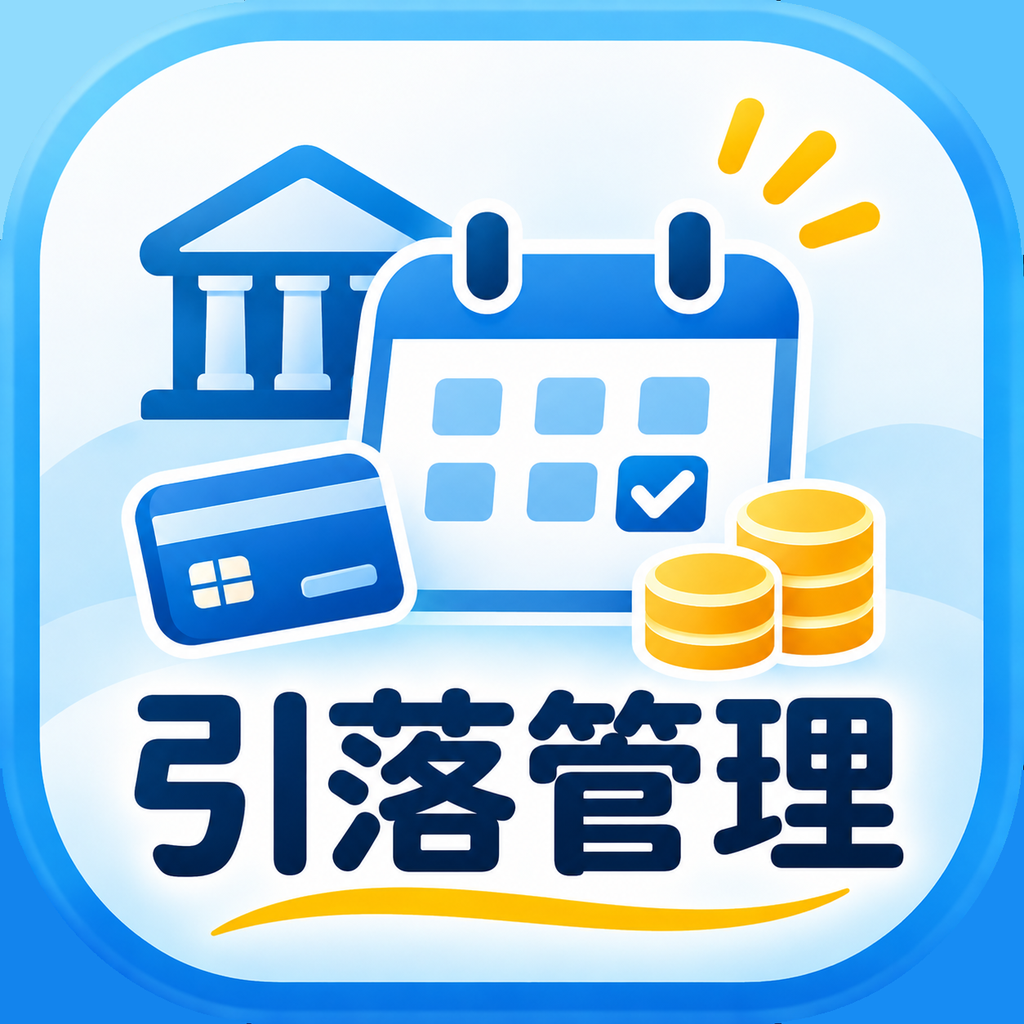
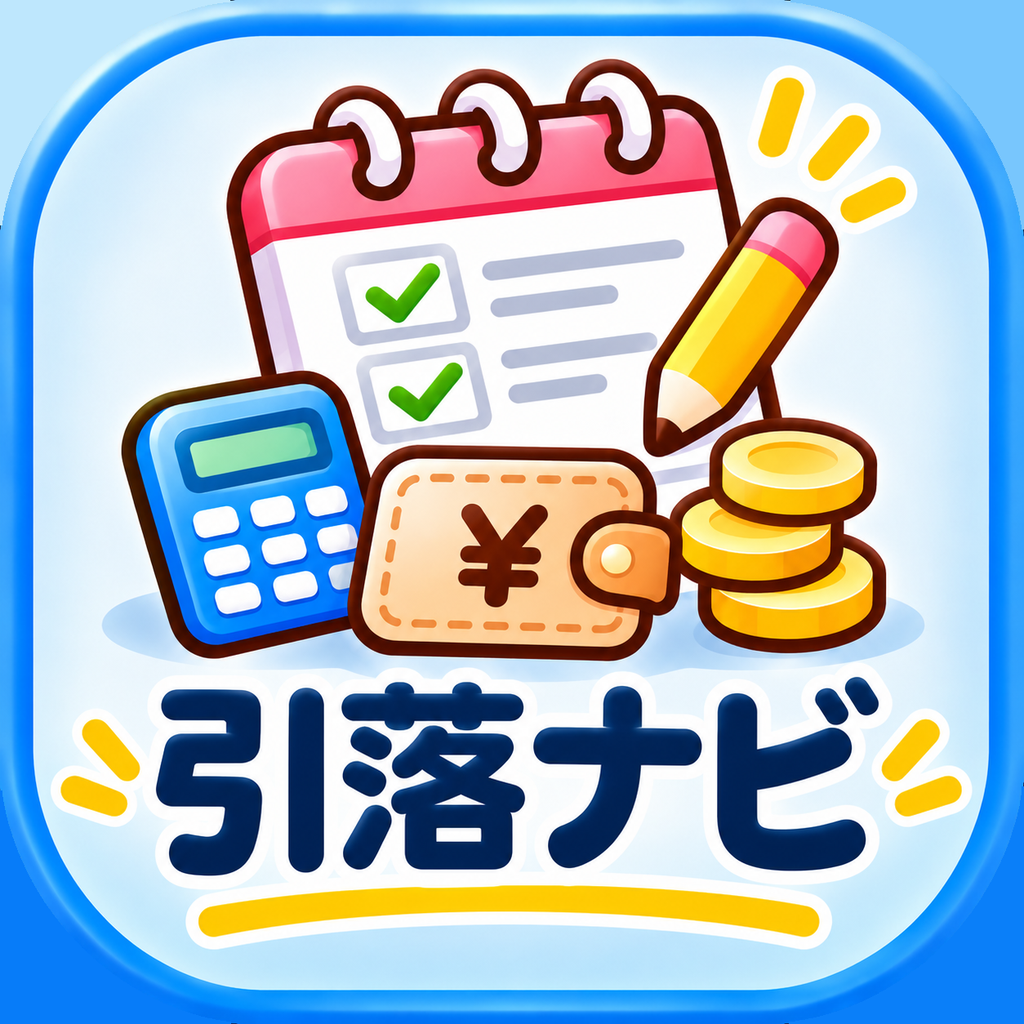
アイコンを「引落ナビ」のデザインに変更
Claude-Session: https://claude.ai/code/session_01BdEdxiF6o3EAy9uxbKMDjx

diff --git a/sw.js b/sw.js
@@ -1,6 +1,6 @@
 /* オフライン用：アプリ本体だけを保存する（家計データはここに含まれない） */
-const CACHE = 'kakeibo-app-v60';
-const FILES = ['./', 'index.html', 'native.js', 'calc.js', 'app.js', 'manifest.webmanifest', 'hero.png', 'icon-192-v2.png', 'icon-512-v2.png', 'apple-touch-icon-v2.png'];
+const CACHE = 'kakeibo-app-v61';
+const FILES = ['./', 'index.html', 'native.js', 'calc.js', 'app.js', 'manifest.webmanifest', 'hero.png', 'icon-192-v3.png', 'icon-512-v3.png', 'apple-touch-icon-v3.png'];
 self.addEventListener('install', e => {
   e.waitUntil(caches.open(CACHE).then(c => c.addAll(FILES.map(f => new Request(f, { cache: 'reload' })))).then(() => self.skipWaiting()));
 });

diff --git a/index.html b/index.html
@@ -13,8 +13,8 @@
 <meta name="theme-color" content="#FFE3EA" media="(prefers-color-scheme: light)">
 <meta name="theme-color" content="#17191E" media="(prefers-color-scheme: dark)">
 <link rel="manifest" href="manifest.webmanifest">
-<link rel="apple-touch-icon" href="apple-touch-icon-v2.png">
-<link rel="icon" href="icon-192-v2.png">
+<link rel="apple-touch-icon" href="apple-touch-icon-v3.png">
+<link rel="icon" href="icon-192-v3.png">
 <title>引落ナビ</title>
 <style>
 /* Layout: 1カラムの通帳風。上から 要約 → 銀行別 → 変動費 → 固定費 → バックアップ */
